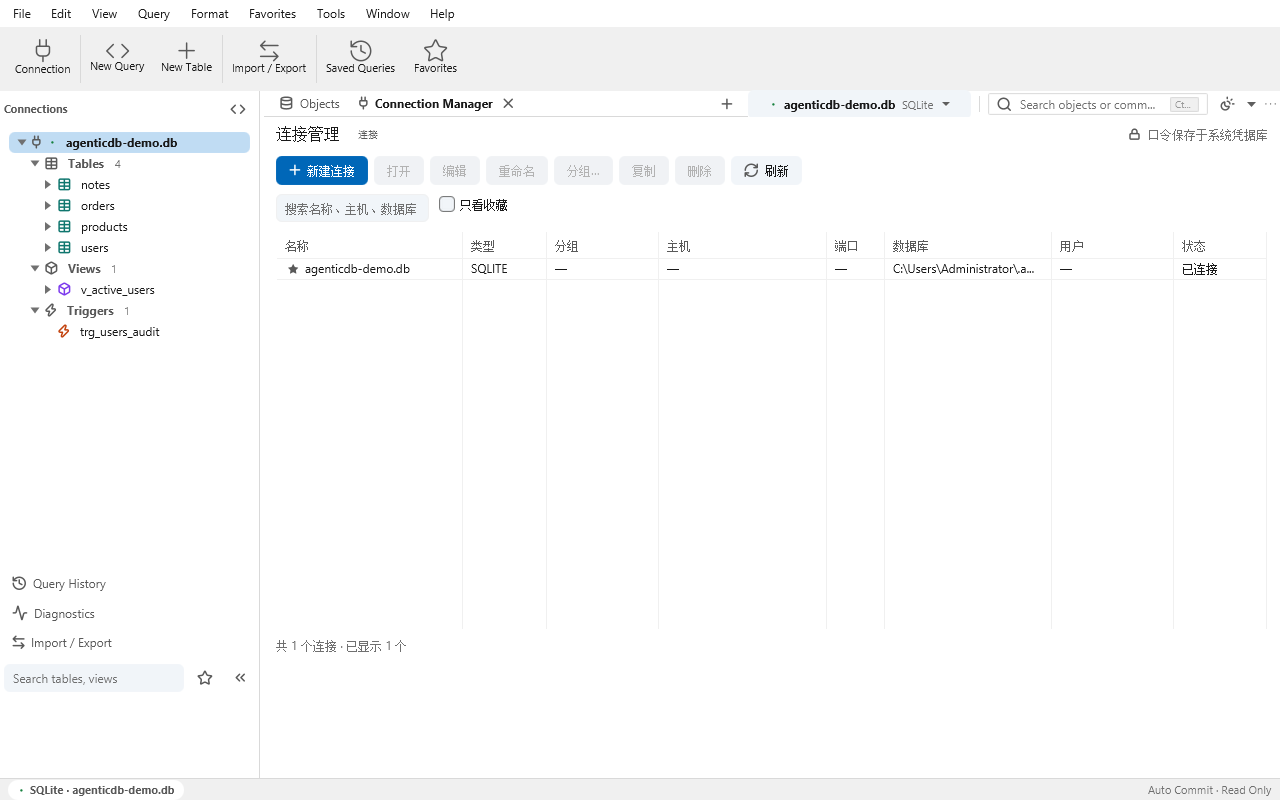
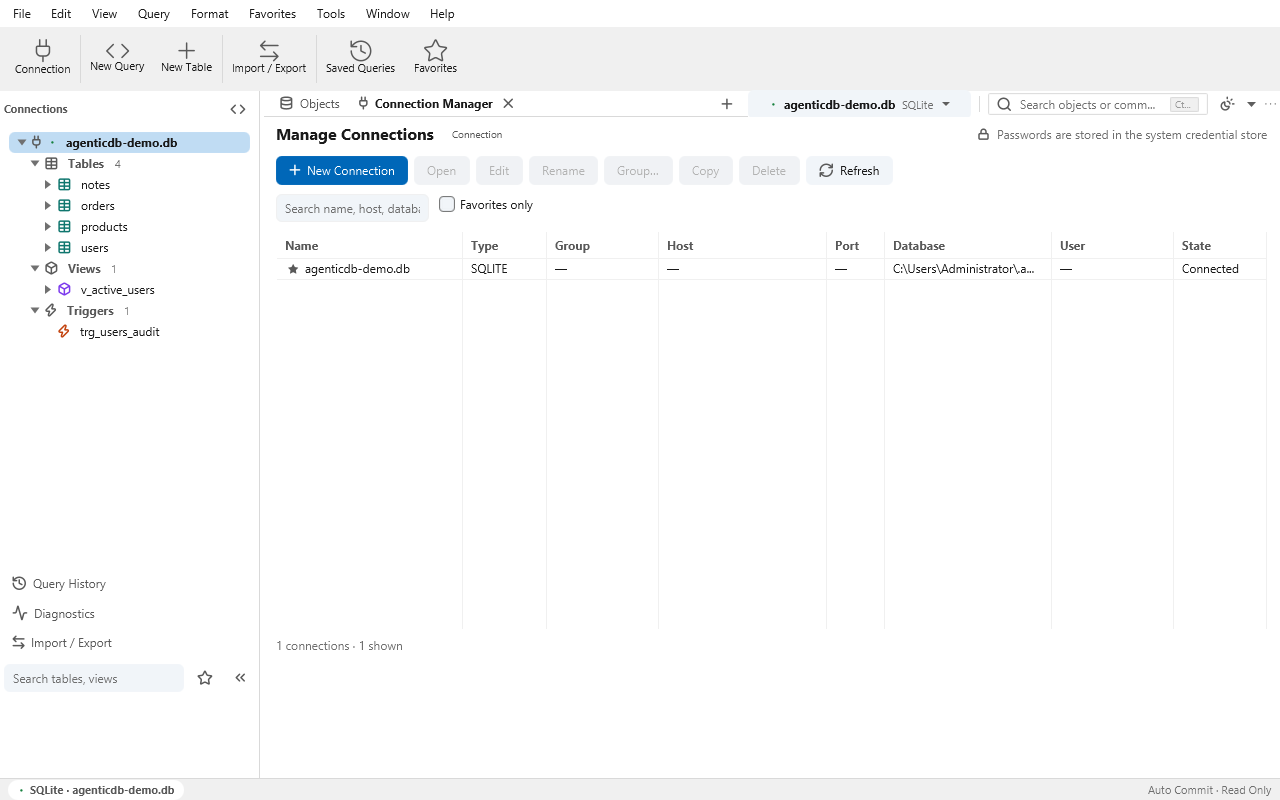
feat(ui): R34 N1-b 第十四批 —— 连接管理页抽干净（51 → 0），棘轮 530 → 479
- ConnectionsPage 51 条 CJK 字面量全部入资源包（新增 25 键 conn.*，复用 12 键双侧全等：
  sidebar.menuOpen / menu.edit / action.edit.copy / structure.field.rename / common.delete /
  action.refresh / column.name / detail.type / category.database / detail.connected /
  sidebar.onlyFavorites / wizard.host / wizard.port / object.newConnection /
  ribbon.newConnection）；资源包 1105 → 1130 键
- 六条 tooltip 提示改 conn.hint.*，未选中态用 conn.hint.noneSelected={0} 传参拼接
  （原「先选中 —— 」+ 提示 是字面 concat）；状态行改 conn.status 双占位符
- ConnectionsPageTest 八列列头断言重钉 I18n.t()；I18nAuditTest 棘轮 530 → 479
- 验收：全量 150 组 / 1180 条 / 0 失败 / 0 错误 / 134 类持平；p5-connections 重拍
  目视全英（Manage Connections / 8 列 / Connected / "1 connections · 1 shown"；
  搜索框 220px 定宽提示省略号属既定裁定非缺陷）

push 仍未授权。

diff --git a/ui/adb-ui-shell/src/main/java/io/agenticdb/ui/shell/ConnectionsPage.java b/ui/adb-ui-shell/src/main/java/io/agenticdb/ui/shell/ConnectionsPage.java
@@ -1,6 +1,7 @@
 package io.agenticdb.ui.shell;
 
 import io.agenticdb.session.ConnectionProfile;
+import io.agenticdb.ui.I18n;
 import io.agenticdb.ui.Icons;
 import io.agenticdb.ui.RowHeights;
 import javafx.beans.binding.Bindings;
@@ -49,15 +50,15 @@ public final class ConnectionsPage extends VBox implements AutoCloseable {
     /** 密度档位 → 行高（不写死）。 */
     private int rowHeight = RowHeights.of("normal");
     private final TextField search = new TextField();
-    private final CheckBox favoritesOnly = new CheckBox("只看收藏");
+    private final CheckBox favoritesOnly = new CheckBox(I18n.t("sidebar.onlyFavorites"));
     private final Label status = new Label("—");
-    private final Button open = new Button("打开");
-    private final Button edit = new Button("编辑");
-    private final Button duplicate = new Button("复制");
-    private final Button rename = new Button("重命名");
-    private final Button group = new Button("分组…");
-    private final Button delete = new Button("删除");
-    private final Button refresh = IconButtons.of(Icons.Icon.REFRESH, "刷新");
+    private final Button open = new Button(I18n.t("sidebar.menuOpen"));
+    private final Button edit = new Button(I18n.t("menu.edit"));
+    private final Button duplicate = new Button(I18n.t("action.edit.copy"));
+    private final Button rename = new Button(I18n.t("structure.field.rename"));
+    private final Button group = new Button(I18n.t("conn.action.group"));
+    private final Button delete = new Button(I18n.t("common.delete"));
+    private final Button refresh = IconButtons.of(Icons.Icon.REFRESH, I18n.t("action.refresh"));
 
     private Predicate<ConnectionProfile> deleteConfirmation = this::confirmDelete;
     private Consumer<ConnectionProfile> onOpen;
@@ -94,13 +95,13 @@ public final class ConnectionsPage extends VBox implements AutoCloseable {
     }
 
     private void buildUi() {
-        Label title = new Label("连接管理");
+        Label title = new Label(I18n.t("conn.title"));
         title.getStyleClass().add("adb-page__title");
-        Label badge = new Label("连接");
+        Label badge = new Label(I18n.t("ribbon.newConnection"));
         badge.getStyleClass().addAll("adb-badge", "adb-badge--muted");
         Region headerSpacer = new Region();
         HBox.setHgrow(headerSpacer, Priority.ALWAYS);
-        Label context = new Label("口令保存于系统凭据库");
+        Label context = new Label(I18n.t("conn.context.credentials"));
         context.getStyleClass().add("adb-muted");
         // §2.8：安全提示要看着像安全提示 —— 纯文字容易被当成页脚噪音，配一把锁。
         context.setGraphic(Icons.of(Icons.Icon.LOCK, Icons.SIZE_BADGE));
@@ -110,7 +111,7 @@ public final class ConnectionsPage extends VBox implements AutoCloseable {
         header.getStyleClass().add("adb-page__header");
         header.setAlignment(Pos.CENTER_LEFT);
 
-        Button newConnection = IconButtons.of(Icons.Icon.ADD, "新建连接");
+        Button newConnection = IconButtons.of(Icons.Icon.ADD, I18n.t("object.newConnection"));
         newConnection.setId("connections-new");
         // ⚠ 变体类必须和基础类一起挂：只写 adb-button--primary 的话，
         //    按钮拿不到统一的 28px 行高 / 12px 内边距 / 悬停与按下反馈 ——
@@ -147,7 +148,7 @@ public final class ConnectionsPage extends VBox implements AutoCloseable {
 
         search.setId("connections-search");
         search.getStyleClass().add("adb-connections__search");
-        search.setPromptText("搜索名称、主机、数据库");
+        search.setPromptText(I18n.t("conn.search.prompt"));
         favoritesOnly.getStyleClass().add("adb-connections__favorites");
         HBox filter = new HBox(10, search, favoritesOnly);
         filter.setAlignment(Pos.CENTER_LEFT);
@@ -159,9 +160,9 @@ public final class ConnectionsPage extends VBox implements AutoCloseable {
         table.setColumnResizePolicy(TableView.CONSTRAINED_RESIZE_POLICY_FLEX_LAST_COLUMN);
         // ⭐ 同一句话要同时cover「搜不到」和「压根没建过」两种情况，
         //    所以说明里把两条出路都讲了。
-        table.setPlaceholder(EmptyState.of(Icons.Icon.CONNECT, "没有匹配的连接",
-                "换一个关键词试试；如果还没建过连接，先新建第一个。",
-                "新建连接", onNew));
+        table.setPlaceholder(EmptyState.of(Icons.Icon.CONNECT, I18n.t("conn.empty.title"),
+                I18n.t("conn.empty.note"),
+                I18n.t("object.newConnection"), onNew));
         table.setFixedCellSize(rowHeight);
         VBox.setVgrow(table, Priority.ALWAYS);
 
@@ -182,7 +183,8 @@ public final class ConnectionsPage extends VBox implements AutoCloseable {
 
     /** 七列：名称 / 类型 / 主机 / 端口 / 数据库 / 用户 / 状态。 */
     private void buildColumns() {
-        TableColumn<ConnectionProfile, String> name = column("名称", "name", 200);
+        TableColumn<ConnectionProfile, String> name = column(I18n.t("column.name"),
+                "name", 200);
         name.setCellValueFactory(data -> new javafx.beans.property.SimpleStringProperty(
                 data.getValue().name()));
         // 收藏标记放进「名称」列的前面 —— 一列一个信息，不另开一列。
@@ -199,7 +201,7 @@ public final class ConnectionsPage extends VBox implements AutoCloseable {
                 if (getTableRow() != null && getTableRow().getItem() != null
                         && getTableRow().getItem().favorite()) {
                     SVGPath star = Icons.of(Icons.Icon.STAR_FILLED, Icons.SIZE_BADGE);
-                    star.setAccessibleText("已收藏");
+                    star.setAccessibleText(I18n.t("conn.star.favorited"));
                     setGraphic(star);
                     setGraphicTextGap(4);
                 } else {
@@ -208,16 +210,19 @@ public final class ConnectionsPage extends VBox implements AutoCloseable {
             }
         });
 
-        TableColumn<ConnectionProfile, String> kind = column("类型", "kind", 90);
+        TableColumn<ConnectionProfile, String> kind = column(I18n.t("detail.type"),
+                "kind", 90);
         kind.setCellValueFactory(data -> new javafx.beans.property.SimpleStringProperty(
                 data.getValue().kindLabel()));
 
         // ⭐ P5-1：分组是展示层元数据，单独一列 —— 不塞进名称列（名字要能直接改名）。
-        TableColumn<ConnectionProfile, String> groupColumn = column("分组", "group", 120);
+        TableColumn<ConnectionProfile, String> groupColumn = column(I18n.t("conn.col.group"),
+                "group", 120);
         groupColumn.setCellValueFactory(data -> new javafx.beans.property.SimpleStringProperty(
                 displayOrDash(data.getValue().group())));
 
-        TableColumn<ConnectionProfile, String> host = column("主机", "host", 180);
+        TableColumn<ConnectionProfile, String> host = column(I18n.t("wizard.host"),
+                "host", 180);
         host.setCellValueFactory(data -> new javafx.beans.property.SimpleStringProperty(
                 displayOrDash(data.getValue().host())));
 
@@ -226,23 +231,27 @@ public final class ConnectionsPage extends VBox implements AutoCloseable {
         //    「这个方言有没有端口」是**方言层的事**（`usesFilePath` = 走文件路径，
         //    自然没有主机与端口）—— 这里不能按具体方言写分支，
         //    否则就破了 A1 的承诺（加一种数据库只改 Dialect 实现）。
-        TableColumn<ConnectionProfile, String> port = column("端口", "port", 80);
+        TableColumn<ConnectionProfile, String> port = column(I18n.t("wizard.port"),
+                "port", 80);
         port.setCellValueFactory(data -> new javafx.beans.property.SimpleStringProperty(
                 data.getValue().kind().dialect().usesFilePath()
                         ? "—"
                         : String.valueOf(data.getValue().port())));
 
-        TableColumn<ConnectionProfile, String> database = column("数据库", "database", 180);
+        TableColumn<ConnectionProfile, String> database = column(I18n.t("category.database"),
+                "database", 180);
         database.setCellValueFactory(data -> new javafx.beans.property.SimpleStringProperty(
                 displayOrDash(data.getValue().database())));
 
-        TableColumn<ConnectionProfile, String> user = column("用户", "user", 130);
+        TableColumn<ConnectionProfile, String> user = column(I18n.t("conn.col.user"),
+                "user", 130);
         user.setCellValueFactory(data -> new javafx.beans.property.SimpleStringProperty(
                 displayOrDash(data.getValue().username())));
 
-        TableColumn<ConnectionProfile, String> state = column("状态", "state", 100);
+        TableColumn<ConnectionProfile, String> state = column(I18n.t("conn.col.state"),
+                "state", 100);
         state.setCellValueFactory(data -> new javafx.beans.property.SimpleStringProperty(
-                connected.test(data.getValue()) ? "已连接" : "—"));
+                connected.test(data.getValue()) ? I18n.t("detail.connected") : "—"));
 
         table.getColumns().addAll(name, kind, groupColumn, host, port, database, user, state);
     }
@@ -273,12 +282,12 @@ public final class ConnectionsPage extends VBox implements AutoCloseable {
         // ⭐ U19：这排按钮在没选中行时**六个一起变灰**，第一眼像整个面板坏了。
         // 变灰本身是对的（动作确实不可用），缺的是「为什么灰、怎么做才亮」——
         // 把原因绑在 tooltip 上，选择一变就自动同步，不会出现按钮能点了还写着「先选中」。
-        bindSelectionAction(open, "打开选中的连接（进入对象首页）");
-        bindSelectionAction(edit, "编辑这个连接的参数");
-        bindSelectionAction(duplicate, "复制这个连接为一个新条目");
-        bindSelectionAction(rename, "重命名这个连接");
-        bindSelectionAction(group, "把选中的连接归到一个分组");
-        bindSelectionAction(delete, "删除这个连接（不影响数据库里的数据）");
+        bindSelectionAction(open, I18n.t("conn.hint.open"));
+        bindSelectionAction(edit, I18n.t("conn.hint.edit"));
+        bindSelectionAction(duplicate, I18n.t("conn.hint.duplicate"));
+        bindSelectionAction(rename, I18n.t("conn.hint.rename"));
+        bindSelectionAction(group, I18n.t("conn.hint.group"));
+        bindSelectionAction(delete, I18n.t("conn.hint.delete"));
     }
 
     /**
@@ -292,14 +301,14 @@ public final class ConnectionsPage extends VBox implements AutoCloseable {
         button.disableProperty().bind(noneSelected);
         Tooltip tooltip = new Tooltip();
         tooltip.textProperty().bind(Bindings.when(noneSelected)
-                .then("先选中一个连接 —— " + enabledHint)
+                .then(I18n.t("conn.hint.noneSelected", enabledHint))
                 .otherwise(enabledHint));
         button.setTooltip(tooltip);
     }
 
     public void refresh() {
         applyFilter();
-        status.setText("共 " + profiles.size() + " 个连接 · 已显示 " + visible.size() + " 个");
+        status.setText(I18n.t("conn.status", profiles.size(), visible.size()));
         updateButtons();
     }
 
@@ -379,15 +388,15 @@ public final class ConnectionsPage extends VBox implements AutoCloseable {
 
     private void refreshAfterEdit() {
         applyFilter();
-        status.setText("共 " + profiles.size() + " 个连接 · 已显示 " + visible.size() + " 个");
+        status.setText(I18n.t("conn.status", profiles.size(), visible.size()));
     }
 
     private void renameSelected() {
         selected().ifPresent(profile -> {
             TextInputDialog dialog = new TextInputDialog(profile.name());
-            dialog.setTitle("重命名连接");
-            dialog.setHeaderText("重命名「" + profile.name() + "」");
-            dialog.setContentText("名称");
+            dialog.setTitle(I18n.t("conn.rename.title"));
+            dialog.setHeaderText(I18n.t("conn.rename.header", profile.name()));
+            dialog.setContentText(I18n.t("column.name"));
             dialog.initOwner(getScene() == null ? null : getScene().getWindow());
             DialogStyles.apply(dialog, getScene() == null ? null : getScene().getWindow());
             dialog.showAndWait()
@@ -400,17 +409,17 @@ public final class ConnectionsPage extends VBox implements AutoCloseable {
     private void groupSelected() {
         selected().ifPresent(profile -> {
             Dialog<String> dialog = new Dialog<>();
-            dialog.setTitle("移动到分组");
-            dialog.setHeaderText("把「" + profile.name() + "」移到分组");
+            dialog.setTitle(I18n.t("conn.group.title"));
+            dialog.setHeaderText(I18n.t("conn.group.header", profile.name()));
             ComboBox<String> input = new ComboBox<>();
             input.setId("connection-group-name");
             input.setEditable(true);
             input.getItems().setAll(existingGroups());
             input.setValue(profile.group());
             input.setPrefWidth(240);
-            Label hint = new Label("留空 = 移出分组；也可以直接输入新分组名。");
+            Label hint = new Label(I18n.t("conn.group.hint"));
             hint.getStyleClass().add("adb-muted");
-            VBox content = new VBox(8, new Label("分组"), input, hint);
+            VBox content = new VBox(8, new Label(I18n.t("conn.col.group")), input, hint);
             dialog.getDialogPane().setContent(content);
             dialog.getDialogPane().getButtonTypes().setAll(
                     javafx.scene.control.ButtonType.OK, javafx.scene.control.ButtonType.CANCEL);
@@ -445,10 +454,10 @@ public final class ConnectionsPage extends VBox implements AutoCloseable {
     private boolean confirmDelete(ConnectionProfile profile) {
         // ⛔ 同 AppShell：破坏性按钮不能是默认按钮（回车即删），统一走 DestructiveConfirm。
         DestructiveConfirm confirm = DestructiveConfirm.of(
-                "删除连接",
-                "删除 " + profile.name() + "？",
-                "这会移除连接元数据与系统凭据，不会删除数据库中的数据。",
-                "删除");
+                I18n.t("conn.delete.title"),
+                I18n.t("conn.delete.header", profile.name()),
+                I18n.t("conn.delete.note"),
+                I18n.t("common.delete"));
         Alert alert = confirm.alert();
         if (getScene() != null) {
             alert.initOwner(getScene().getWindow());

diff --git a/ui/adb-ui-shell/src/test/java/io/agenticdb/ui/shell/ConnectionsPageTest.java b/ui/adb-ui-shell/src/test/java/io/agenticdb/ui/shell/ConnectionsPageTest.java
@@ -2,6 +2,7 @@ package io.agenticdb.ui.shell;
 
 import io.agenticdb.jdbc.DialectKind;
 import io.agenticdb.session.ConnectionProfile;
+import io.agenticdb.ui.I18n;
 import javafx.collections.FXCollections;
 import javafx.collections.ObservableList;
 import javafx.scene.control.TableCell;
@@ -112,7 +113,10 @@ class ConnectionsPageTest {
                 .hasSize(8);
         assertThat(table.getColumns())
                 .extracting(TableColumn::getText)
-                .containsExactly("名称", "类型", "分组", "主机", "端口", "数据库", "用户", "状态");
+                .containsExactly(I18n.t("column.name"), I18n.t("detail.type"),
+                        I18n.t("conn.col.group"), I18n.t("wizard.host"),
+                        I18n.t("wizard.port"), I18n.t("category.database"),
+                        I18n.t("conn.col.user"), I18n.t("conn.col.state"));
         assertThat(table.getColumns())
                 .as("每一列都要能排序")
                 .allMatch(TableColumn::isSortable);

diff --git a/ui/adb-ui-shell/src/test/java/io/agenticdb/ui/shell/I18nAuditTest.java b/ui/adb-ui-shell/src/test/java/io/agenticdb/ui/shell/I18nAuditTest.java
@@ -73,7 +73,7 @@ class I18nAuditTest {
      * 而本类是先 {@code stripComments} 再计数。口径不同的两个数放在一起，
      * 只会让人以为棘轮又涨了。
      */
-    private static final int CJK_CEILING = 530;
+    private static final int CJK_CEILING = 479;
 
     /**
      * ⭐ R34 N1-b 第七批补的第三把尺：<b>模型层</b>（core / workbench）的汉字字面量。
